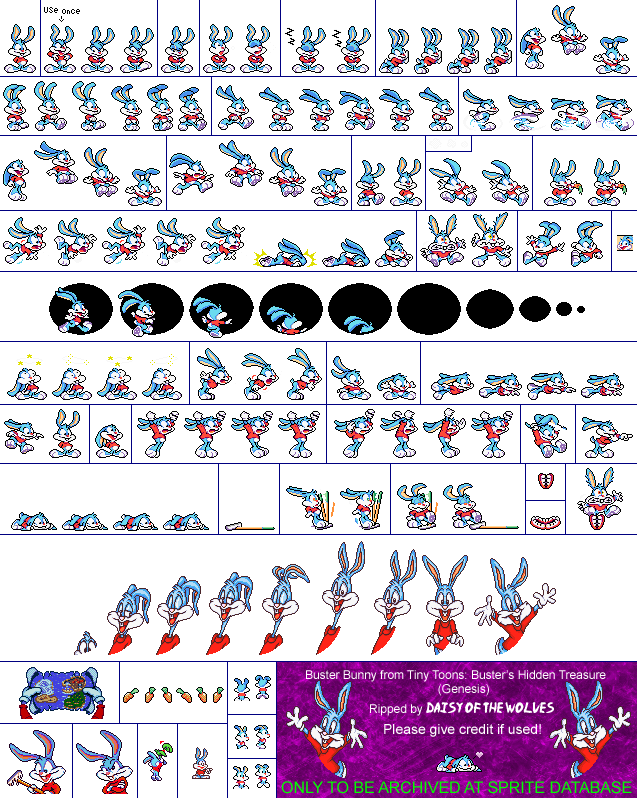
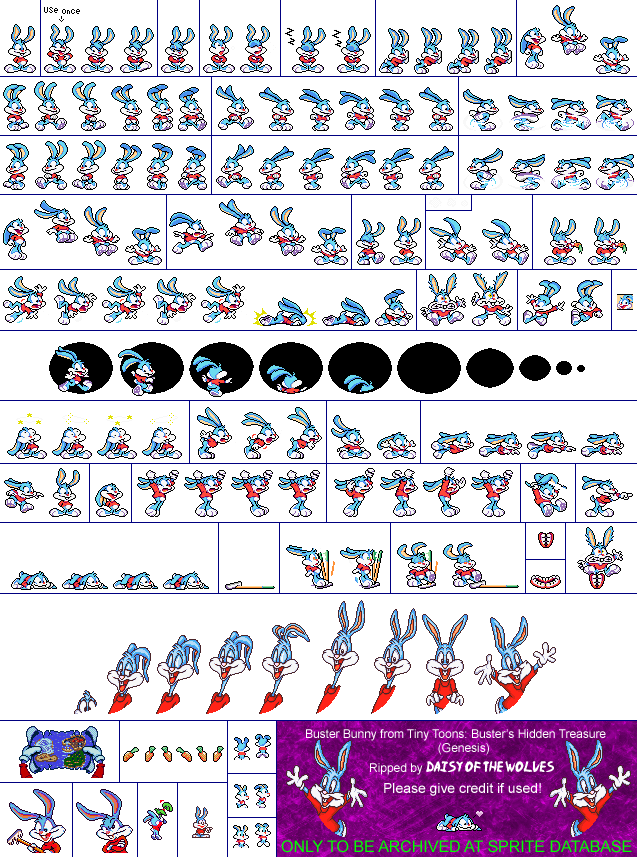
Added walking left animation

diff --git a/Character.js b/Character.js
@@ -7,7 +7,7 @@ function Character() {
 	this.acceleration = new Acceleration();
 	this.animations = new Array();
 
-	this.currentAnimationIndex = 0;
+	this.currentAnimationIndex = 3;
 }
 
 Character.prototype.updateSpeed = function (modifierVelocity) {
@@ -25,8 +25,8 @@ Character.prototype.updateSpeed = function (modifierVelocity) {
 		this.changeAnimation(0);
 	} else if (this.currentAnimationIndex != 2 && this.velocity.x > 0) {
 		this.changeAnimation(2);
-	} else if (this.currentAnimationIndex != 1 && this.velocity.x < 0) {
-		this.changeAnimation(1);
+	} else if (this.currentAnimationIndex != 3 && this.velocity.x < 0) {
+		this.changeAnimation(3);
 	}
 
 	// Cap y velocity when falling?

diff --git a/Game.js b/Game.js
@@ -22,7 +22,7 @@ Game.prototype.run = function () {
 	this.addEventListeners();
 
 	this.initializePlayer();
-	this.map.draw(this.graphics.map);
+//	this.map.draw(this.graphics.map);
 
 	window.setInterval(function () {
 		window.requestAnimationFrame(function () {
@@ -100,8 +100,8 @@ Game.prototype.initializePlayer = function () {
 	this.player.bounds.w = 20;
 	this.player.bounds.h = 35;
 
-	this.player.maxVelocity.x = 15;
-	this.player.maxVelocity.y = 15;
+	this.player.maxVelocity.x = 8;
+	this.player.maxVelocity.y = 8;
 
 	// Animations
 	var buster = this.player;
